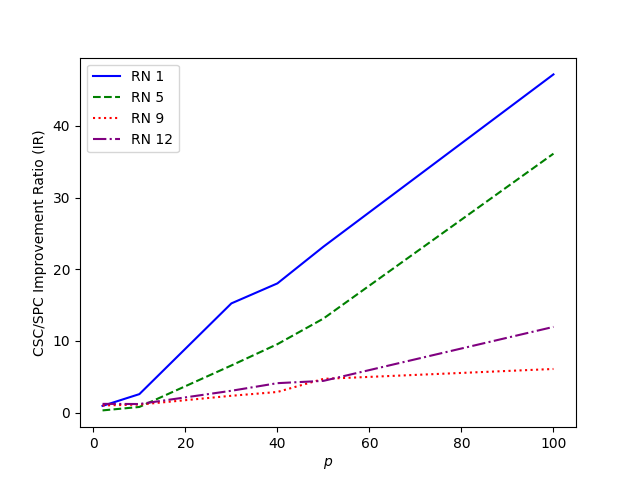
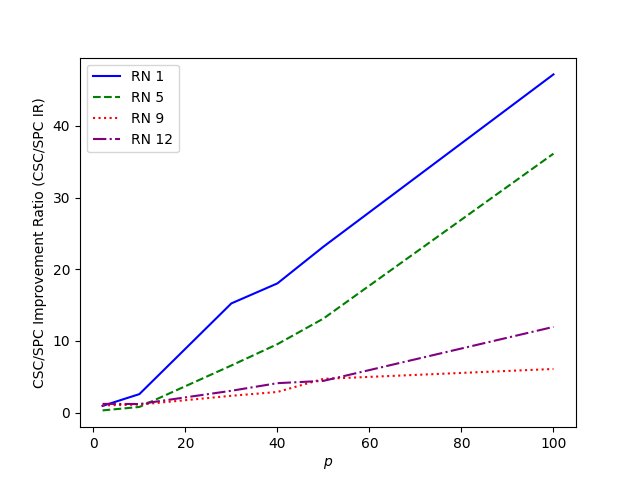
changes

Changed region(s): [[0.0312, 0.2188, 0.0938, 0.8125]]

diff --git a/Summarizing_Results/CARP_Demand/EBD/SPC/Results/Summarizing_Results_Comp_Time.py b/Summarizing_Results/CARP_Demand/EBD/SPC/Results/Summarizing_Results_Comp_Time.py
@@ -1,0 +1,85 @@
+import pandas as pd
+import matplotlib.pyplot as plt
+df = pd.read_csv('Summary_Branch_Cut_SPC_EBD.csv')
+df['RN Name'] = df['Instance_name'].str.replace('CARP_','').str.replace('_graph.dat', '').str.split('_').apply(lambda x: '\\_'.join(x))
+
+# Counting Instances that are infeasible
+df_infeasible=df[df['Comments']=='Infeasible']
+Count_Infeasible=df_infeasible.groupby(['RN Name','tolerance']).agg({'RN Name':'first','tolerance':'first','Sol_Status_SP_Const':'count'})
+Count_Infeasible.rename(columns={'Sol_Status_SP_Const':'No. of Infeasible Instances'}, inplace=True)
+
+# Counting Instances that exceeded time limit (with Solution)
+df_time_limit=df[df['Sol_Status_SP_Const']=='time limit exceeded']
+df_time_limit_grouped=df_time_limit.groupby(['RN Name','tolerance']).agg({'RN Name':'first','tolerance':'first','Sol_Status_SP_Const':'count'})
+df_time_limit_grouped.rename(columns={'Sol_Status_SP_Const':'No. of Instance that Reached Time Limit'}, inplace=True)
+
+# Counting Instances that could not find feasible solution within time limit
+df_time_limit_wo_sol=df[df['Comments']=='CF']
+df_time_limit_wo_sol_grouped=df_time_limit_wo_sol.groupby(['RN Name','tolerance']).agg({'RN Name':'first','tolerance':'first','Sol_Status_SP_Const':'count'})
+df_time_limit_wo_sol_grouped.rename(columns={'Sol_Status_SP_Const':'No. of Instance that Could Not Find Feasible Solution Within Time Limit'}, inplace=True)
+
+
+
+gap_analysis = df_time_limit.groupby(['RN Name', 'tolerance']).agg(mean_gap=('gap', 'mean'), max_gap=('gap', 'max')).reset_index()
+gap_analysis.to_csv('gap.csv',index=False)
+
+
+df_feasible=df[(df['Sol_Status_SP_Const']!='CPLEX Error  1217: No solution exists.')]
+Average_by_District = df_feasible.groupby(['RN Name','No. of Districts']).agg({'RN Name':'first','No. of Districts':'first','Total_Time_SP':'mean'})
+
+Average_by_Tolerance = df_feasible.groupby(['RN Name','tolerance']).agg({'RN Name':'first','tolerance':'first','Total_Time_SP':'mean'})
+Average_by_Tolerance=Average_by_Tolerance[['Total_Time_SP']]
+Count_Infeasible=Count_Infeasible[['No. of Infeasible Instances']]
+df_time_limit_grouped=df_time_limit_grouped[['No. of Instance that Reached Time Limit']]
+df_time_limit_wo_sol_grouped=df_time_limit_wo_sol_grouped[['No. of Instance that Could Not Find Feasible Solution Within Time Limit']]
+Average_by_Tolerance.reset_index(inplace=True)
+Count_Infeasible.reset_index(inplace=True)
+df_time_limit_grouped.reset_index(inplace=True)
+df_time_limit_wo_sol_grouped.reset_index(inplace=True)
+
+df_tolerance=pd.merge(Average_by_Tolerance,Count_Infeasible,on=['RN Name','tolerance'],how='left')
+df_tolerance=pd.merge(df_tolerance,df_time_limit_grouped,on=['RN Name','tolerance'],how='left')
+df_tolerance=pd.merge(df_tolerance,df_time_limit_wo_sol_grouped,on=['RN Name','tolerance'],how='left')
+
+df_tolerance['No. of Infeasible Instances'] = df_tolerance['No. of Infeasible Instances'].fillna(0)
+df_tolerance['No. of Instance that Reached Time Limit'] = df_tolerance['No. of Instance that Reached Time Limit'].fillna(0)
+df_tolerance['No. of Instance that Could Not Find Feasible Solution Within Time Limit'] = df_tolerance['No. of Instance that Could Not Find Feasible Solution Within Time Limit'].fillna(0)
+
+
+
+df_tolerance['RN No.']=df_tolerance['RN Name'].apply(lambda x: 4 if x=='F6\_p' else 5)
+result_final=df_tolerance[['RN No.','tolerance','Total_Time_SP','No. of Infeasible Instances','No. of Instance that Reached Time Limit','No. of Instance that Could Not Find Feasible Solution Within Time Limit']]
+result_final.to_csv('results.csv')
+latex_code = result_final.to_latex(index=False, escape=False,formatters={'tolerance': '{:,.0%}'.format,'$|V|$': '{:,.0f}'.format,'Total_Time_SP': '{:,.0f}'.format, 'No. of Infeasible Instances': '{:,.0f}'.format,'No. of Instance that Reached Time Limit': '{:,.0f}'.format,'No. of Instance that Could Not Find Feasible Solution Within Time Limit': '{:,.0f}'.format})
+
+with open('dataframe_table_2.tex', 'w') as file:
+    file.write(latex_code)
+
+Average_by_District['RN No.']=Average_by_District['RN Name'].apply(lambda x: 4 if x=='F6\_p' else 5)
+result_final_1=Average_by_District[['RN No.','No. of Districts','Total_Time_SP']]
+
+
+RN=[4,5]
+condition1 = result_final_1['RN No.'] == 4
+condition2 = result_final_1['RN No.'] == 5
+fig, ax = plt.subplots()
+# Plot for condition1
+plt.plot(result_final_1[condition1]['No. of Districts'],result_final_1[condition1]['Total_Time_SP'],linestyle='-', color='blue',label=r'RN '+str(RN[0]))
+plt.plot(result_final_1[condition2]['No. of Districts'],result_final_1[condition2]['Total_Time_SP'],linestyle='--', color='green',label=r'RN '+str(RN[1]))
+plt.xlabel(r'$p$')
+plt.ylabel('Average Computational Time (in Seconds)')
+ax.legend()
+plt.savefig('Average_Comp.png')
+# Show the plots
+plt.show()
+
+
+
+gap_analysis['RN No.']=gap_analysis['RN Name'].apply(lambda x: 4 if x=='F6\_p' else 5)
+gap_analysis=gap_analysis[['RN No.','tolerance','mean_gap','max_gap']]
+gap_analysis['mean_gap']=gap_analysis['mean_gap']/100
+gap_analysis['max_gap']=gap_analysis['max_gap']/100
+latex_code_2 = gap_analysis.to_latex(index=False, escape=False,formatters={'tolerance': '{:,.0%}'.format,'$|V|$': '{:,.0f}'.format,'Total_Time_SP': '{:,.0f}'.format, 'max_gap': '{:,.2%}'.format,'mean_gap': '{:,.2%}'.format})
+
+with open('dataframe_table_3.tex', 'w') as file:
+    file.write(latex_code_2)

diff --git a/Summarizing_Results/CARP_Demand/EBD/SPC/Trial.py b/Summarizing_Results/CARP_Demand/EBD/SPC/Trial.py
@@ -1,0 +1,105 @@
+import time
+import numpy as np
+import collections
+import csv
+import pandas as pd
+import cplex
+from itertools import combinations
+import sys
+import traceback
+class Graph():
+    def __init__(self, prob):
+        self.file = prob
+        self.no_nodes = np.loadtxt(self.file, skiprows=1, max_rows=1, usecols=1,
+                                   dtype=int)  # skipping lines to get the number of nodes in the planar graph
+        self.no_nodes1 = int(self.no_nodes)
+        self.no_edges = np.loadtxt(self.file, skiprows=2, max_rows=1, usecols=1,
+                                   dtype=int)  # skipping lines to get the
+        self.no_edges1 = int(self.no_edges)
+        self.adj_list = np.loadtxt(self.file, skiprows=9, max_rows=self.no_edges1, usecols=(2, 3), dtype=int)
+        self.nodes_list = list(range(1, (self.no_nodes) + 1))
+        self.from_node_i = self.adj_list[:, 0].tolist()
+        self.to_node_j = self.adj_list[:, 1].tolist()
+        self.edges_list = list(range(1, self.no_edges + 1))  # Edges Vector
+        # # Finding incident edges for every node
+        self.edges = collections.defaultdict(list)
+        for i in range(len(self.from_node_i)):
+            self.edges[self.from_node_i[i] + 1].append(i + 1)
+            self.edges[self.to_node_j[i] + 1].append(i + 1)
+
+        self.edge_lengths = np.loadtxt(self.file, skiprows=9, max_rows=self.no_edges1, usecols=4, dtype=float)
+        self.demand=np.loadtxt(self.file, skiprows=9, max_rows=self.no_edges1, usecols=5, dtype=float)
+        # This block calculates the length of each edge
+        index = 0
+        self.euc_dist = collections.defaultdict(dict)  # dictionary to store the Euclidean Distance of each edge, since it is a symmetric matrix we add the below two lines
+        for ind, j in enumerate(self.from_node_i):
+            self.euc_dist[self.from_node_i[ind] + 1][self.to_node_j[index] + 1] = self.edge_lengths[index]
+            self.euc_dist[self.to_node_j[ind] + 1][self.from_node_i[index] + 1] = self.edge_lengths[index]
+            index += 1
+
+        # # creating a vector of index for every pair of node (i) and edge (e)
+        self.node_i = []
+        self.edge_e = []
+        for i in self.nodes_list:
+            for j in self.edges_list:
+                self.node_i.append(i)
+                self.edge_e.append(j)
+
+        self.adj = collections.defaultdict(list)
+        for i in range(len(self.from_node_i)):
+            self.adj[self.from_node_i[i] + 1].append(self.to_node_j[i] + 1)
+            self.adj[self.to_node_j[i] + 1].append(self.from_node_i[i] + 1)
+
+        # # Corresponding nodes for every edge
+        self.nodes_corr = collections.defaultdict(list)
+        for i in range(len(self.from_node_i)):
+            self.nodes_corr[i + 1].append(self.from_node_i[i] + 1)
+            self.nodes_corr[i + 1].append(self.to_node_j[i] + 1)
+            self.nodes_corr[i + 1] = sorted(self.nodes_corr[i + 1])
+
+        t0 = time.time()
+        self.edge_number = collections.defaultdict(list)
+        for key, value in self.nodes_corr.items():
+            self.edge_number[(value[0], value[1])] = key
+
+        self.d_1 = round(time.time() - t0, 2)
+        print('time to create this dictionary')
+        print(self.d_1)
+
+        # # Creating a list of the degree for every node
+        self.degree = []
+        for i in self.nodes_list:
+            self.degree.append(len(self.edges[i]))
+
+        # # Creating a dictionary for neighboring edges for each edge (Looks like it can be further simplified)
+        self.edges_neighboring = collections.defaultdict(list)
+        for e in self.edges_list:
+            nodes_corr = []
+            nodes_corr.append(self.from_node_i[e - 1] + 1)
+            nodes_corr.append(self.to_node_j[e - 1] + 1)
+            self.edges_nei = []
+            for i in nodes_corr:
+                self.edges_nei.extend(self.edges[i])
+            self.edges_nei1 = list(set(self.edges_nei))
+            l = []
+            l.append(e)
+            self.edges_nei = [x for x in self.edges_nei1 if x not in l]
+            self.edges_neighboring[e].extend(self.edges_nei)
+
+        self.demand_edge_index = {}  # creating a dictionary that has the length of each edge using the edge index
+        for index, i in enumerate(self.from_node_i):
+            self.demand_edge_index[index + 1] = self.demand[index]
+
+        # self.nodetoedge_net_dist = pd.read_csv("nodetoedge_distance_" + str(prob) + ".csv", header=0, index_col=0)
+        # self.nodetoedge_path = pd.read_csv("nodetoedge_path_" + str(prob) + ".csv", index_col=0, header=0)
+        # self.nodetoedge_path.columns = self.edges_list
+        # self.nodetoedge_path = self.nodetoedge_path.transpose()
+        # self.nodetoedge_path_dict = self.nodetoedge_path.to_dict()
+
+
+prob_list=['CARP_F6_p_graph.dat','CARP_O12_g_graph.dat']
+for prob in prob_list:
+    graph = Graph(prob)
+    total_demand=(sum(graph.demand_edge_index.values()))
+    print(prob)
+    print(total_demand)

diff --git a/Summarizing_Results/CARP_Demand/EBD/SPC/Results/Summarizing_results.py b/Summarizing_Results/CARP_Demand/EBD/SPC/Results/Summarizing_results.py
@@ -1,0 +1,32 @@
+import pandas as pd
+import matplotlib.pyplot as plt
+df = pd.read_csv('Summary_Branch_Cut_SPC_EBD.csv')
+df = df.dropna() # This line will remove the no solution rows from the dataframe
+df['No. of Instances']=27
+df['No. of Infeasible Instances'] = df['No. of Instances'] - df.groupby('No. of Nodes')['No. of Nodes'].transform('count')
+# Getting df with Exceeded Time Limit
+condition=df['Sol_Status_SP_Const']=='time limit exceeded'
+condition_df=df[condition]
+Time_limit_Ex_df = condition_df.groupby('Instance_name').agg({'Sol_Status_SP_Const':'count'})
+Time_limit_Ex_df.rename(columns={'Sol_Status_SP_Const':'No. of Instances that Exceeded Time Limit'}, inplace=True)
+df.reset_index(inplace=True)
+Time_limit_Ex_df.reset_index(inplace=True)
+df=pd.merge(df,Time_limit_Ex_df,on='Instance_name',how='left')
+# Merge the original DataFrame with the grouped counts on 'No. of Nodes'
+df=df[df['Sol_Status_SP_Const']!='time limit exceeded']
+result = df.groupby('Instance_name').agg({'Instance_name':'first','No. of Nodes':'first','No. of Edges':'first','No. of Instances':'first','No. of Infeasible Instances':'first','No. of Instances that Exceeded Time Limit':'first','Total_Time_SP': 'mean'})
+result = result.reset_index(drop=True)
+result['NBV']=(result['No. of Nodes']*result['No. of Edges'])+result['No. of Nodes']
+result.rename(columns={'No. of Nodes': '$|V|$', 'No. of Edges': '$|E|$','Instance_name':'RN Name', 'Total_Time_SP':'EBD-SPC'}, inplace=True)
+result = result.sort_values(by='NBV')
+result['RN No.']=range(1, len(result) + 1)
+result['RN Name'] = result['RN Name'].str.replace('CARP_','').str.replace('_graph.dat', '').str.split('_').apply(lambda x: '\\_'.join(x))
+results_final_1=result[['RN No.','EBD-SPC']]
+pd.options.display.float_format = '{:.2f}'.format
+# Convert DataFrame to LaTeX code
+
+results_final_2=result[['RN No.','EBD-SPC','No. of Instances','No. of Infeasible Instances','No. of Instances that Exceeded Time Limit']]
+latex_code = results_final_2.to_latex(index=False, escape=False,formatters={'EBD-SPC': '{:,.0f}'.format})
+with open('dataframe_table_1.tex', 'w') as file:
+    file.write(latex_code)
+

diff --git a/Summarizing_Results/CARP_Demand/EBD/Branch_Cut/Summarizing_EBD_Results.py b/Summarizing_Results/CARP_Demand/EBD/Branch_Cut/Summarizing_EBD_Results.py
@@ -44,9 +44,11 @@ with open('Results/Summary_EBD_Branch_Cut_Only.csv', 'w') as newFile:
 
                     CPLEX_Error = np.loadtxt(results_file, skiprows=3, max_rows=1, usecols=0, dtype=str,
                                                      delimiter=',')
-                    if CPLEX_Error == 'CPLEX Error':
-                        list_probs.append(results_file)
+                    error_type = np.loadtxt(results_file, skiprows=4, max_rows=1, usecols=0, dtype=str,
+                                            delimiter=',')
 
+                    if CPLEX_Error == 'CPLEX Error' and error_type=='CPLEX Error  1217: No solution exists.':
+                        list_probs.append(results_file)
                     pass
 
 print(list_probs)

diff --git a/Summarizing_Results/CARP_Demand/EBD/SPC/Results/Merging_SPC_CSC.py b/Summarizing_Results/CARP_Demand/EBD/SPC/Results/Merging_SPC_CSC.py
@@ -1,0 +1,8 @@
+import pandas as pd
+df = pd.read_csv('Summary_Branch_Cut_SPC_EBD.csv')
+df_1 = pd.read_csv('Summary_EBD_Branch_Cut_Only.csv')
+df_merged=pd.merge(df,df_1,on=['Instance_name','No. of Districts','tolerance'],how='right',suffixes=('', '_df2'))
+df_merged.to_csv('merge.csv',index=False)
+df_merged_wo_BC_Time_Limit=df_merged[df_merged['Sol_Status_B&C']!='time limit exceeded']
+df_merged_wo_BC_Time_Limit['Deviation']=abs(df_merged_wo_BC_Time_Limit['Objective_Function_SPC']-df_merged_wo_BC_Time_Limit['Objective_Function_B&C'])/df_merged_wo_BC_Time_Limit['Objective_Function_SPC']
+df_merged_wo_BC_Time_Limit.to_csv('dev.csv',index=False)

diff --git a/Summarizing_Results/EPM-ECPM/ECPM/ECPM_Branch_Cut/Results/Summarizing_results.py b/Summarizing_Results/EPM-ECPM/ECPM/ECPM_Branch_Cut/Results/Summarizing_results.py
@@ -51,7 +51,7 @@ plt.plot(df[condition2]['No. of Districts'],df[condition2]['Speedup'],linestyle=
 plt.plot(df[condition3]['No. of Districts'],df[condition3]['Speedup'],linestyle=':', color='red',label=r'RN '+str(RN[2]))
 plt.plot(df[condition4]['No. of Districts'],df[condition4]['Speedup'],linestyle='-.', color='purple',label=r'RN '+str(RN[3]))
 plt.xlabel(r'$p$')
-plt.ylabel('CSC/SPC Improvement Ratio (IR)')
+plt.ylabel('CSC/SPC Improvement Ratio (CSC/SPC IR)')
 ax.legend()
 plt.savefig('IR.png')
 # Show the plots

diff --git a/Models/EBD/SPC/generate_task_new.py b/Models/EBD/SPC/generate_task_new.py
@@ -1,0 +1,19 @@
+import pickle
+
+model=['EBD_SP_Cut_Empty']
+probs_list=['CARP_O12_g_graph.dat']
+no_dist_list=[2,4]
+tol_list=[1]
+task_list=[[m,k,i,j] for m in model for k in probs_list for i in no_dist_list for j in tol_list]
+
+
+task_dict={}
+for i,j in enumerate(task_list):
+    task_dict[i+1]=j[:]
+
+print(task_dict)
+with open("pickle_file.pykl","wb") as f:
+    pickle.dump(task_dict,f)
+
+with open("pickle_file.pykl","rb") as f2:
+    read_dict=pickle.load(f2)

diff --git a/Summarizing_Results/CARP_Demand/EBD/SPC/Results/dataframe_table_2.tex b/Summarizing_Results/CARP_Demand/EBD/SPC/Results/dataframe_table_2.tex
@@ -1,0 +1,12 @@
+\begin{tabular}{rrrrrr}
+\toprule
+RN No. & tolerance & Total_Time_SP & No. of Infeasible Instances & No. of Instance that Reached Time Limit & No. of Instance that Could Not Find Feasible Solution Within Time Limit \\
+\midrule
+4 & 1% & 36,727 & 4 & 3 & 0 \\
+4 & 10% & 30,564 & 0 & 5 & 0 \\
+4 & 100% & 2,167 & 0 & 0 & 0 \\
+5 & 1% & 19,544 & 4 & 1 & 1 \\
+5 & 10% & 7,491 & 3 & 0 & 1 \\
+5 & 100% & 8,763 & 0 & 0 & 0 \\
+\bottomrule
+\end{tabular}

diff --git a/Summarizing_Results/CARP_Demand/EBD/SPC/Results/dataframe_table_3.tex b/Summarizing_Results/CARP_Demand/EBD/SPC/Results/dataframe_table_3.tex
@@ -1,0 +1,9 @@
+\begin{tabular}{rrrr}
+\toprule
+RN No. & tolerance & mean_gap & max_gap \\
+\midrule
+4 & 1% & 8.86% & 12.31% \\
+4 & 10% & 4.94% & 7.42% \\
+5 & 1% & 22.85% & 22.85% \\
+\bottomrule
+\end{tabular}
